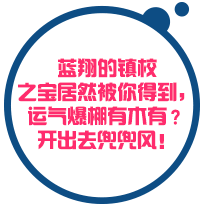
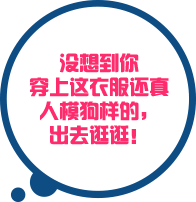
修改错误文件

diff --git a/static/js/anniversary/anniversary2.js b/static/js/anniversary/anniversary2.js
@@ -317,10 +317,11 @@ var shot = function(shotNum){
 	swiper.slideNext();
 }
 
-var gameResult=function(){
-    anjianLevel = parseInt(Math.random()*2)+1;
+// var gameResult=function(){
+//     anjianLevel = parseInt(Math.random()*2)+1;
 
-}
+
+// }
 
 // 关卡切换
 var jQarrow = $(".arrow");
@@ -630,14 +631,14 @@ var showFinal=function(jingdongLevel, zhongxinLevel){
 		geshouLevel = 1;
 		huaweiLevel = 1;
 		finalLevel=2;
-		finalMsg = '时来运转，居然在贴吧赢得了一辆豪华小跑，被封为"最土豪粉丝"';
-
+		finalMsg = '否极泰来，居然在贴吧开走了蓝翔高级挖掘机，被封为“最原生态明星”';
+		
 	}else if(jingdongLevel==2 && zhongxinLevel==1){
 		// 好金 土豪粉丝
 		geshouLevel = 2; //粉
 		huaweiLevel=2; //沉
 		finalLevel=3;
-		finalMsg = '否极泰来，居然在贴吧开走了蓝翔高级挖掘机，被封为“最原生态明星”';
+		finalMsg = '时来运转，居然在贴吧赢得了一辆豪华小跑，被封为"最土豪粉丝"';
 
 	}else if(jingdongLevel==2 && zhongxinLevel==2){
 		// 好挖 赤诚

diff --git a/templates/annimin.html b/templates/annimin.html
@@ -8,7 +8,7 @@
 	<link rel="stylesheet" type="text/css" href="/static/css/swiper.min.css">
 	<link rel="stylesheet" type="text/css" href="/static/css/anniversary2/animate.css">
 	<link rel="stylesheet" type="text/css" href="/static/css/anniversary2/layoutmin.css?v=2.6">
-	<link rel="stylesheet" type="text/css" href="/static/css/anniversary2/iconmin.css?v=1.8">
+	<link rel="stylesheet" type="text/css" href="/static/css/anniversary2/iconmin.css?v=1.9">
 	<link rel="stylesheet" type="text/css" href="/static/css/lib/animate.css?v=1.4">
 	<link rel="stylesheet" type="text/css" href="/static/css/anniversary2/time.css">
 </head>

diff --git a/static/css/anniversary2/layoutmin.css b/static/css/anniversary2/layoutmin.css
@@ -861,7 +861,7 @@ position: absolute;
 }
 .result-text{
 	position: absolute;
-	bottom: 107px;
+	bottom: 77px;
 	left: 90px;
 }
 
